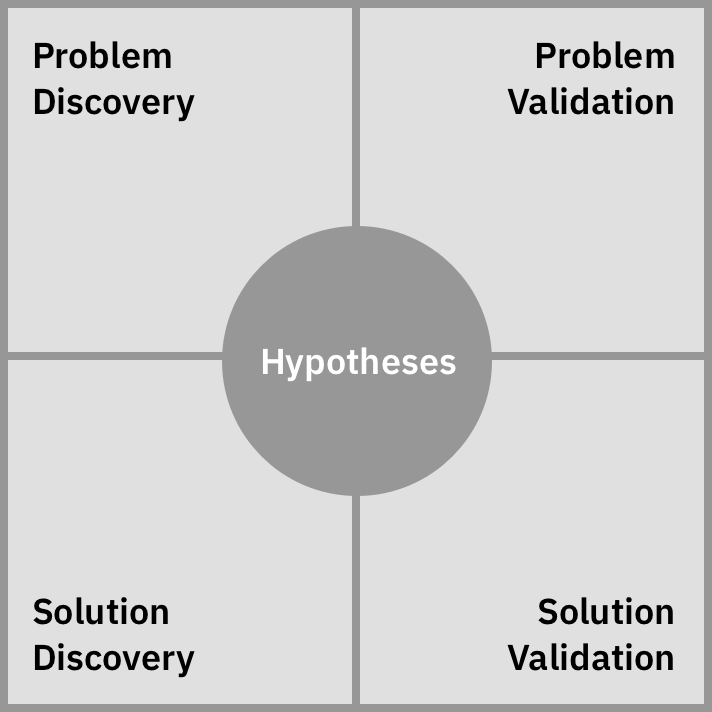
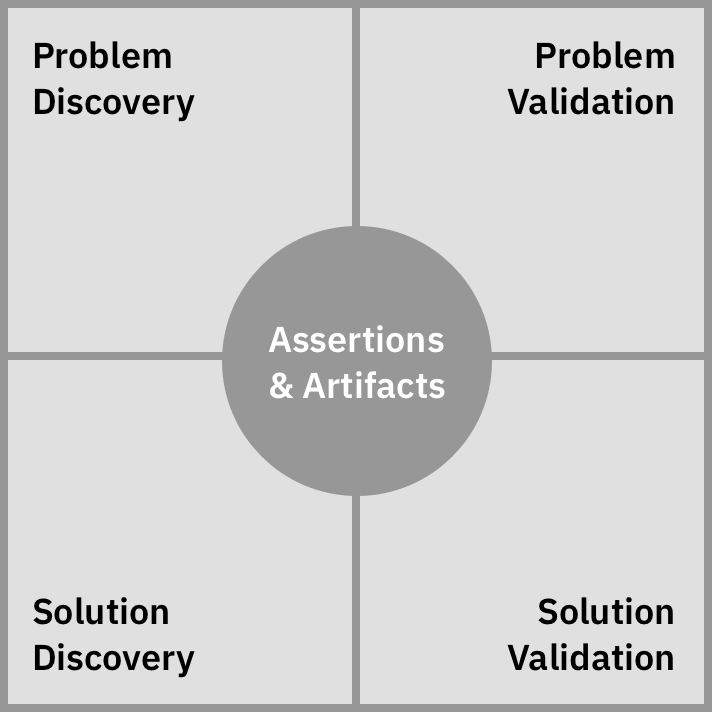
outputs language and other tweaks

Changed region(s): [[0.3708, 0.4635, 0.6489, 0.5562]]

diff --git a/four-contexts.md b/four-contexts.md
@@ -20,6 +20,11 @@ These states and activities combine into the *four contexts*. We are always doin
 3. Discovering possible solutions to a problem.
 4. Validating our solution addresses a problem.
 
+### Outputs
+While working in these contexts, we are generating outputs:
+- Assertions: what we think we know or what we think will happen if we do something.
+- Artifacts: representations of our thinking about problems or attempts at solutions.
+
 ![two-by-two matrix with circle in the middle](context-quadrant.png) 
 
 ## How does it work?
@@ -32,9 +37,9 @@ Members of the team may be working in different contexts at the same time.
 ### Non-linear
 This is not a linear process. In general, we want to understand problems before proposing solutions, but this ignores the reality of existing knowledge, heuristics, and constraints.
 
-There is a constant back-and-forth between discovery and validation of problems and solutions, all centered around hypotheses.
+There is a constant back-and-forth between discovery and validation of problems and solutions, all centered around assertions and artifacts.
 
-We may enter (and exit) the matrix at any location, depending on the needs and scope of the project.
+We may take different paths through the contexts, depending on the needs and scope of the project.
 
 At some point, the future state becomes the current state and solution validation transitions back into problem discovery anew, with the potential to repeat indefinitely.
 
@@ -58,10 +63,13 @@ For each method, we have to define how it can be used in different contexts.
 Although the process is not linear, confidence generally increases in the following order:
 
 - problem discovery (what is going on?)
-- problem validation (are we solving the right problem?)
+- problem validation (are we addressing the right problem?)
 - solution discovery (how might we address the problem?)
 - solution validation (is our solution working?)
 
-As you answer these questions, your confidence increases. If you’re confidence does increase, you move to a different context. For example, if a solution is not working, return to solution discovery to explore more options or to problem validation to confirm you’re solving the right problem.
+As we answer these questions, our confidence increases. If our confidence does increase, we move to a different context. For example, if a solution is not working, return to solution discovery to explore more options or to problem validation to confirm we're solving the right problem.
 
+## Implications
 We should be comfortable laying out a logical progression of activities, but acknowledge that we may move back and forth between different contexts as needed. The main thing is to be clear about what context we’re operating in at any given time.
+
+…
